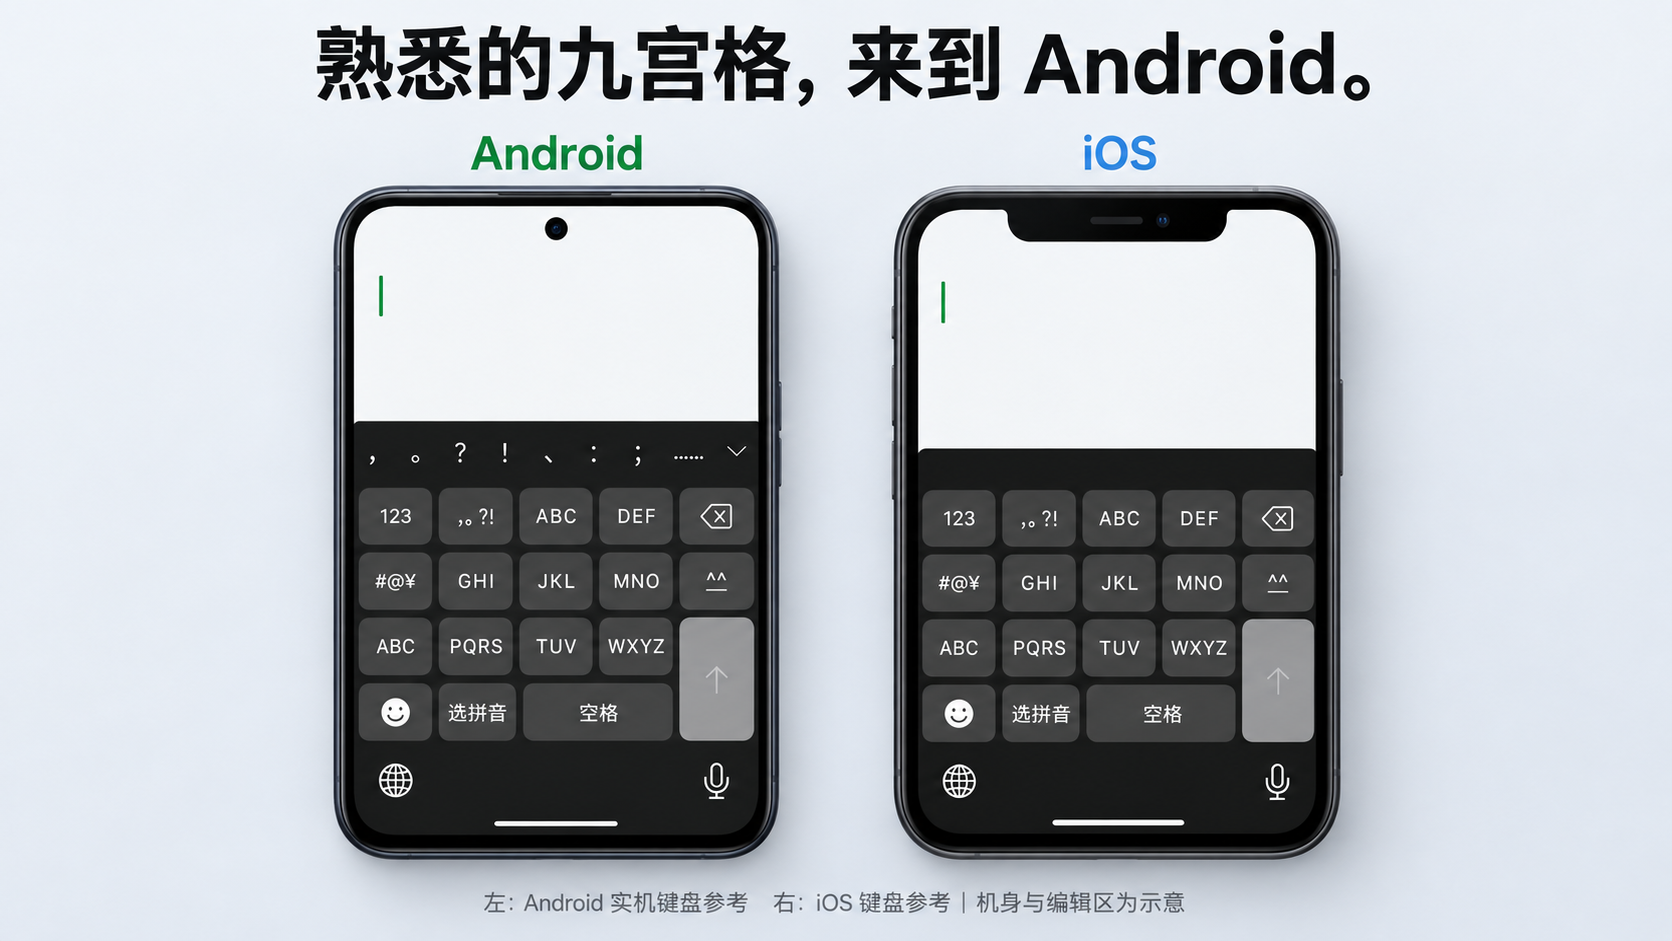
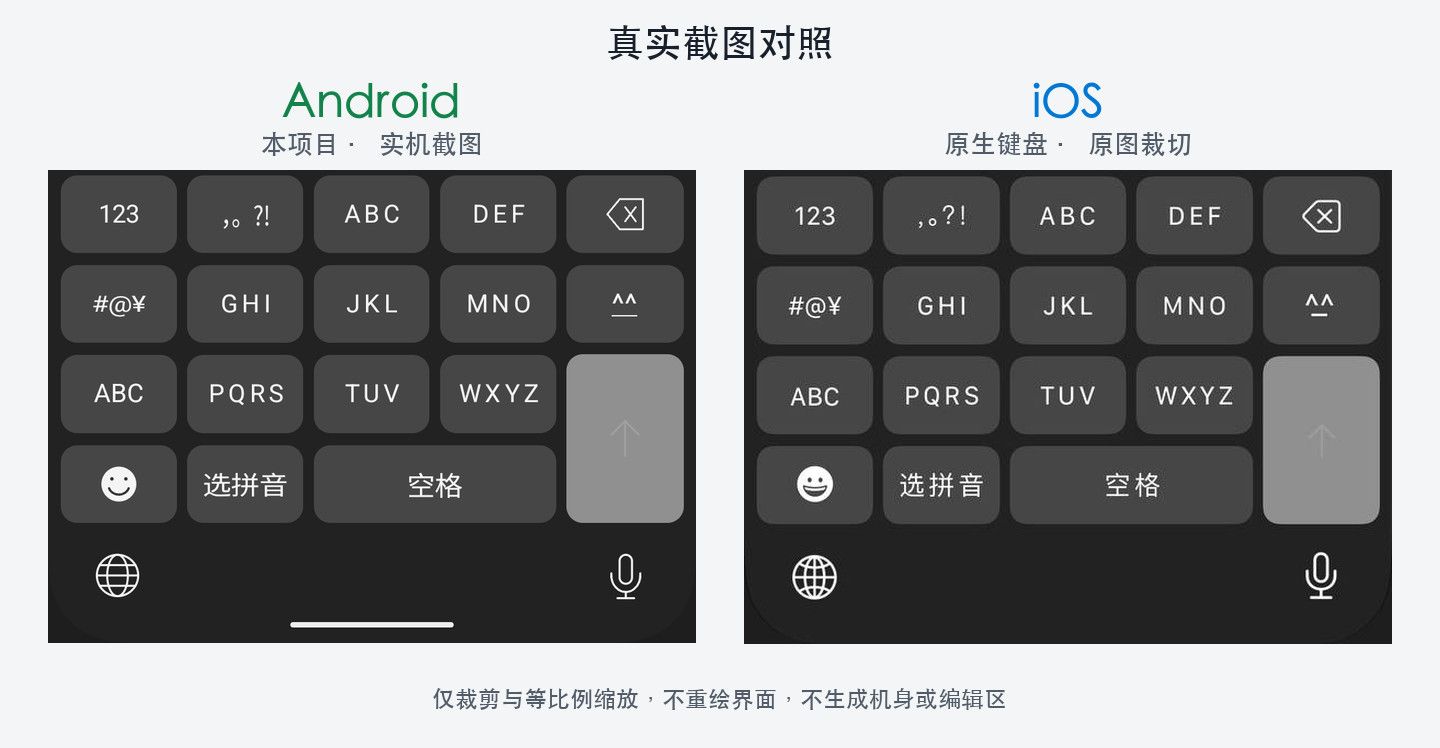
docs: replace generated comparison with original screenshot pixels
Use cropped Android and iOS key areas at equal width without synthesized phones or redrawn UI. Verify exported image panels exactly match resized source pixels and retain source hashes.

diff --git a/scripts/compose_keyboard_comparison.py b/scripts/compose_keyboard_comparison.py
@@ -1,0 +1,77 @@
+#!/usr/bin/env python3
+# SPDX-License-Identifier: GPL-3.0-or-later
+"""Lay out original keyboard pixels; never redraw or synthesize the interfaces."""
+import argparse
+import hashlib
+import json
+from pathlib import Path
+
+from PIL import Image, ImageChops, ImageDraw, ImageFont
+
+ROOT = Path(__file__).resolve().parents[1]
+IMAGES = ROOT / 'docs/images'
+
+
+def digest(path):
+    return hashlib.sha256(path.read_bytes()).hexdigest()
+
+
+def main():
+    parser = argparse.ArgumentParser(description=__doc__)
+    parser.add_argument('--font', type=Path, required=True, help='Local CJK font; not copied or bundled')
+    args = parser.parse_args()
+    fonts = {size: ImageFont.truetype(str(args.font), size) for size in (23, 26, 38, 46)}
+    output = IMAGES / 'android-ios-comparison.png'
+    left_source = IMAGES / 'android-nine-key.png'
+    right_source = IMAGES / 'ios-nine-key-area.png'
+    before = {p.name: digest(p) for p in (left_source, right_source)}
+    left = Image.open(left_source).convert('RGB').crop((0, 219, 960, 920))
+    right = Image.open(right_source).convert('RGB')
+    canvas = Image.new('RGB', (1440, 748), '#f3f5f7')
+    draw = ImageDraw.Draw(canvas)
+    draw.text((720, 42), '真实截图对照', font=fonts[38], fill='#18212b', anchor='mm')
+    panels = []
+    for x, platform, subtitle, color, image in (
+        (48, 'Android', '本项目 · 实机截图', '#13834b', left),
+        (744, 'iOS', '原生键盘 · 原图裁切', '#0078d4', right),
+    ):
+        width = 648
+        height = round(image.height * width / image.width)
+        scaled = image.resize((width, height), Image.Resampling.LANCZOS)
+        box = (x, 170, x + width, 170 + height)
+        draw.text((x + width / 2, 103), platform, font=fonts[46], fill=color, anchor='mm')
+        draw.text((x + width / 2, 143), subtitle, font=fonts[26], fill='#515c68', anchor='mm')
+        canvas.paste(scaled, box[:2])
+        assert ImageChops.difference(canvas.crop(box), scaled).getbbox() is None
+        panels.append({'platform': platform, 'output_box': list(box), 'scaled_image': scaled})
+    draw.text((720, 699), '仅裁剪与等比例缩放，不重绘界面，不生成机身或编辑区',
+              font=fonts[23], fill='#515c68', anchor='mm')
+    canvas.save(output, optimize=True)
+    saved = Image.open(output).convert('RGB')
+    for panel in panels:
+        assert ImageChops.difference(saved.crop(tuple(panel['output_box'])), panel.pop('scaled_image')).getbbox() is None
+    assert before == {p.name: digest(p) for p in (left_source, right_source)}
+    metadata = {
+        'kind': 'deterministic composition of original screenshot key areas',
+        'generator': 'Pillow; no generative model',
+        'output': {'file': output.name, 'width': canvas.width, 'height': canvas.height,
+                   'bytes': output.stat().st_size, 'sha256': digest(output)},
+        'left': {'platform': 'Android', 'source_file': left_source.name, 'source_sha256': before[left_source.name],
+                 'crop_box': [0, 219, 960, 920],
[1 lines of base64/hex data omitted]
+        'right': {'platform': 'iOS', 'source_file': right_source.name, 'source_sha256': before[right_source.name],
[1 lines of base64/hex data omitted]
+                  'crop_from_reference_keyboard': [0, 134, 591, 566],
+                  'private_original_in_git': False, 'prediction_row_omitted': True},
+        'operations': ['crop to key areas', 'equal width with preserved aspect ratio', 'add labels outside images'],
+        'synthetic_phone_frames': False, 'synthetic_editor': False, 'ui_redrawn': False,
+        'pixel_checks': {'saved_panels_equal_resized_source_pixels': True, 'sources_unchanged': True},
+        'panels': panels, 'not_full_screen_or_pixel_parity_acceptance': True,
+    }
+    (IMAGES / 'comparison.json').write_text(json.dumps(metadata, indent=2) + '\n')
+    print(json.dumps({'file': output.relative_to(ROOT).as_posix(), 'size': list(canvas.size),
+                      'panels_match_sources': True, 'sha256': digest(output)}))
+
+
+if __name__ == '__main__':
+    main()

diff --git a/README.md b/README.md
@@ -7,10 +7,10 @@
 一款基于 Trime/Rime 与万象的开源 Android 输入法。支持九键拼音、选拼音、英文、数字、符号和 Emoji，词库与输入引擎在本机离线运行。
 
 <p align="center">
-  <img src="docs/images/android-ios-comparison.png" width="1000" alt="左右双机对照：左侧 Android 展示本项目九宫格，右侧 iOS 展示参考键盘；机身与编辑区为示意" />
+  <img src="docs/images/android-ios-comparison.png" width="1000" alt="原始键区截图左右对照：左侧 Android 本项目输入法，右侧 iOS 原生键盘；仅裁剪与等比例缩放，没有生成或重绘界面" />
 </p>
 
-<p align="center"><b>左：Android 上的本项目输入法　｜　右：iOS 键盘参考</b><br />对照图依据截图制作，机身与编辑区为示意；<a href="docs/images/android-nine-key.png">查看 Android 原始实机键盘截图</a>。</p>
+<p align="center"><b>左：Android 上的本项目输入法　｜　右：iOS 原生键盘</b><br />原始键区截图直接并排，仅裁剪与等比例缩放；<a href="docs/images/android-nine-key.png">查看 Android 完整键盘截图</a>。</p>
 
 ## 功能
 
@@ -62,4 +62,4 @@ APK 位于 `android/trime/app/build/outputs/apk/debug/`。安装后通过 Androi
 
 本项目原创程序与派生代码采用 [GPL-3.0-or-later](LICENSE)。Trime、librime、万象词库、模型及其他依赖保留各自许可证和版权声明，详见 [NOTICE](NOTICE.md) 与[资源来源](docs/COMPLIANCE.md)。
 
-本项目为独立的 Android 输入法项目，与 Apple 无隶属关系；不包含 Apple 字体或原版图标素材。
+本项目为独立的 Android 输入法项目，与 Apple 无隶属关系。APK 不打包 Apple 字体或原版图标素材；文档中的 iOS 键盘裁图仅用于参考对照。

diff --git a/docs/images/README.md b/docs/images/README.md
@@ -1,10 +1,12 @@
 # 项目展示图片
 
-## 双机对照图
+## 原始截图对照图
 
-[android-ios-comparison.png](android-ios-comparison.png)为README首屏配图：左侧Android本项目输入法，右侧iOS参考键盘。使用下述Android原始实机图和提供的iOS键盘裁图作为参考，由内置imagegen生成，机身和空白编辑区是示意。未展示私人聊天或iOS预测词栏；私人原件不提交。
+[android-ios-comparison.png](android-ios-comparison.png)为README首屏配图：左侧Android本项目输入法，右侧iOS原生键盘。两侧均取自原始截图，统一裁到主键区后等比例缩放、并排放置；没有生成机身、编辑区或键盘像素。私人聊天和预测词栏未展示，私人完整原件不提交。
 
-生成过程可能重绘键盘细节，此图用于解释项目定位，不是原始截图直接拼接，也不是像素一致性、设备兼容或完整功能证据。原始Android图片和测试记录单独保留。生成提示见[comparison-prompt.md](comparison-prompt.md)，来源哈希与生成图哈希见[comparison.json](comparison.json)。
+来源为[Android完整键盘截图](android-nine-key.png)和[iOS原图键区裁图](ios-nine-key-area.png)。导出的左右图块逐像素等于对应原图裁剪缩放后的像素；无调色、锐化、文字替换或界面重绘。排版方式和复现命令见[comparison-layout.md](comparison-layout.md)，来源、裁剪框、输出框和哈希见[comparison.json](comparison.json)。
+
+两侧按相同显示宽度排版，原始分辨率、系统字形和图标差异保留。此图不代表全部状态或像素一致性验收。iOS裁图仅用于文档参考，不随APK打包，也不由根GPL许可证重新授权。
 
 ## Android原始实机截图
 

diff --git a/docs/COMPLIANCE.md b/docs/COMPLIANCE.md
@@ -26,4 +26,4 @@
 
 新增依赖或资源时记录官方来源、固定版本/commit、SHA256、作者、许可证、例外及修改。第三方原文保持原样；对授权范围不清的资源先核实再集成。
 
-发布APK时同时提供对应源码、构建材料、NOTICE、资源来源和验证范围；核对制品与源码版本，不提交签名私钥、个人输入、用户词库或私人参考原件。README包含Android原始运行截图及基于Android/iOS参考制作的双机展示示意，来源、生成说明和哈希见[截图说明](images/README.md)。
+发布APK时同时提供对应源码、构建材料、NOTICE、资源来源和验证范围；核对制品与源码版本，不提交签名私钥、个人输入、用户词库或私人完整参考原件。README包含Android原始运行截图与iOS原始键区裁图的直接对照，只裁剪和等比例缩放，不生成界面。iOS裁图仅供文档参考，不随APK打包，不由根GPL许可证重新授权；来源、排版说明和哈希见[截图说明](images/README.md)。

diff --git a/docs/images/comparison-layout.md b/docs/images/comparison-layout.md
@@ -1,0 +1,16 @@
+# 原始截图并排方式
+
+首图不使用生成模型。输入为Android实机PNG和iOS原始键区PNG，仅进行裁剪、等比例缩放和排版；文字标注在截图区域之外。
+
+- 左侧：`android-nine-key.png`，取`[0,219,960,920]`，保留主键及底部工具区。
+- 右侧：`ios-nine-key-area.png`，来自iOS键盘参考的`[0,134,591,566]`，去掉预测词栏，保留主键及底部工具区。
+- 两侧各显示宽648px，按各自比例计算高度；不拉伸、不调色、不改变按键或图标。
+- 标题和平台说明使用本机字体，字体文件不复制、不打包。
+
+使用已有Pillow环境执行：
+
+```sh
+python3 scripts/compose_keyboard_comparison.py --font /path/to/local-cjk-font.ttf
+```
+
+脚本校验源图哈希未变，并校验导出PNG中左右区域逐像素等于裁剪、缩放后的输入图块。图像来源、裁剪与输出坐标见[comparison.json](comparison.json)。比较图仅展示该截图的主键区，不是全屏截图或全部视觉状态验收。

diff --git a/docs/STATUS.md b/docs/STATUS.md
@@ -12,7 +12,7 @@
 | 前一fdc658b2 / 990b62cc制品，各自Pixel系统触屏 | 选拼音8/8、五态9/9、重显5/5、敏感删除36/36、异步队列20/20 PASS | [选拼音检查点](testing/PINYIN_ANDROID-20261024.md) |
 | 当前源码的主机验证 | 104 state、50 debug app、50 release app、45工具测试；构建/lint及两实际APK静态审计PASS | [版本检查点](testing/evidence/m5/configuration-final-checkpoint.json) |
 
-以上结果绑定各自APK、测试包与执行范围，不将旧制品成绩直接转移到新制品。README首图为双机展示示意，Android原始运行截图单独保留，详见[图片来源](images/README.md)。
+以上结果绑定各自APK、测试包与执行范围，不将旧制品成绩直接转移到新制品。README首图为Android/iOS原始键区截图直接对照，只裁剪与等比例缩放，详见[图片来源](images/README.md)。
 
 ## 已知限制
 
